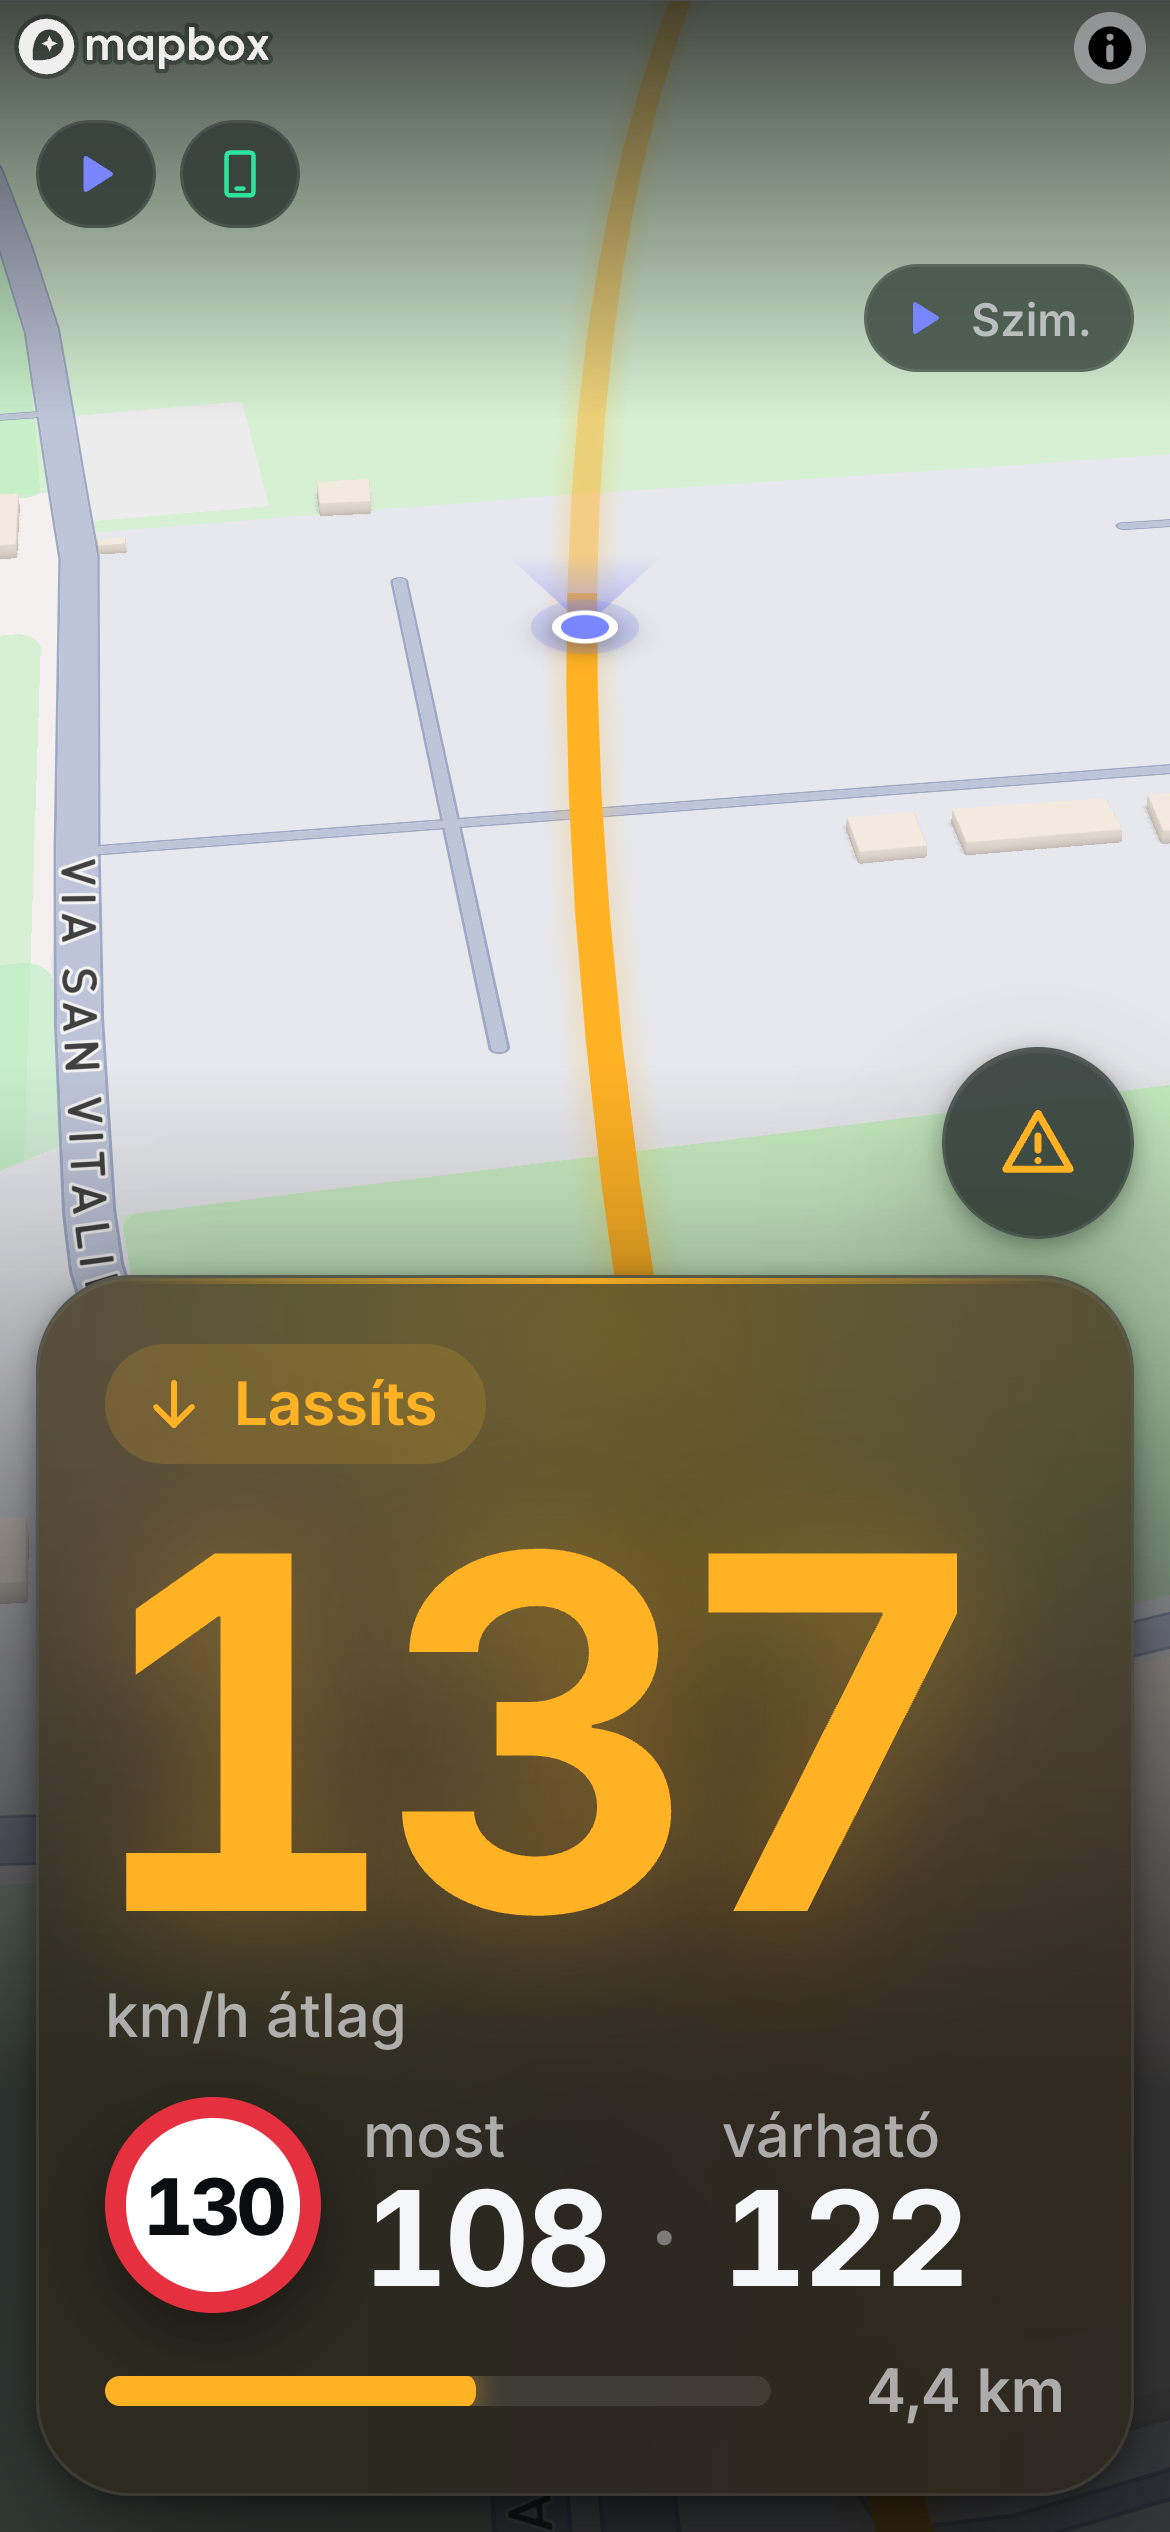
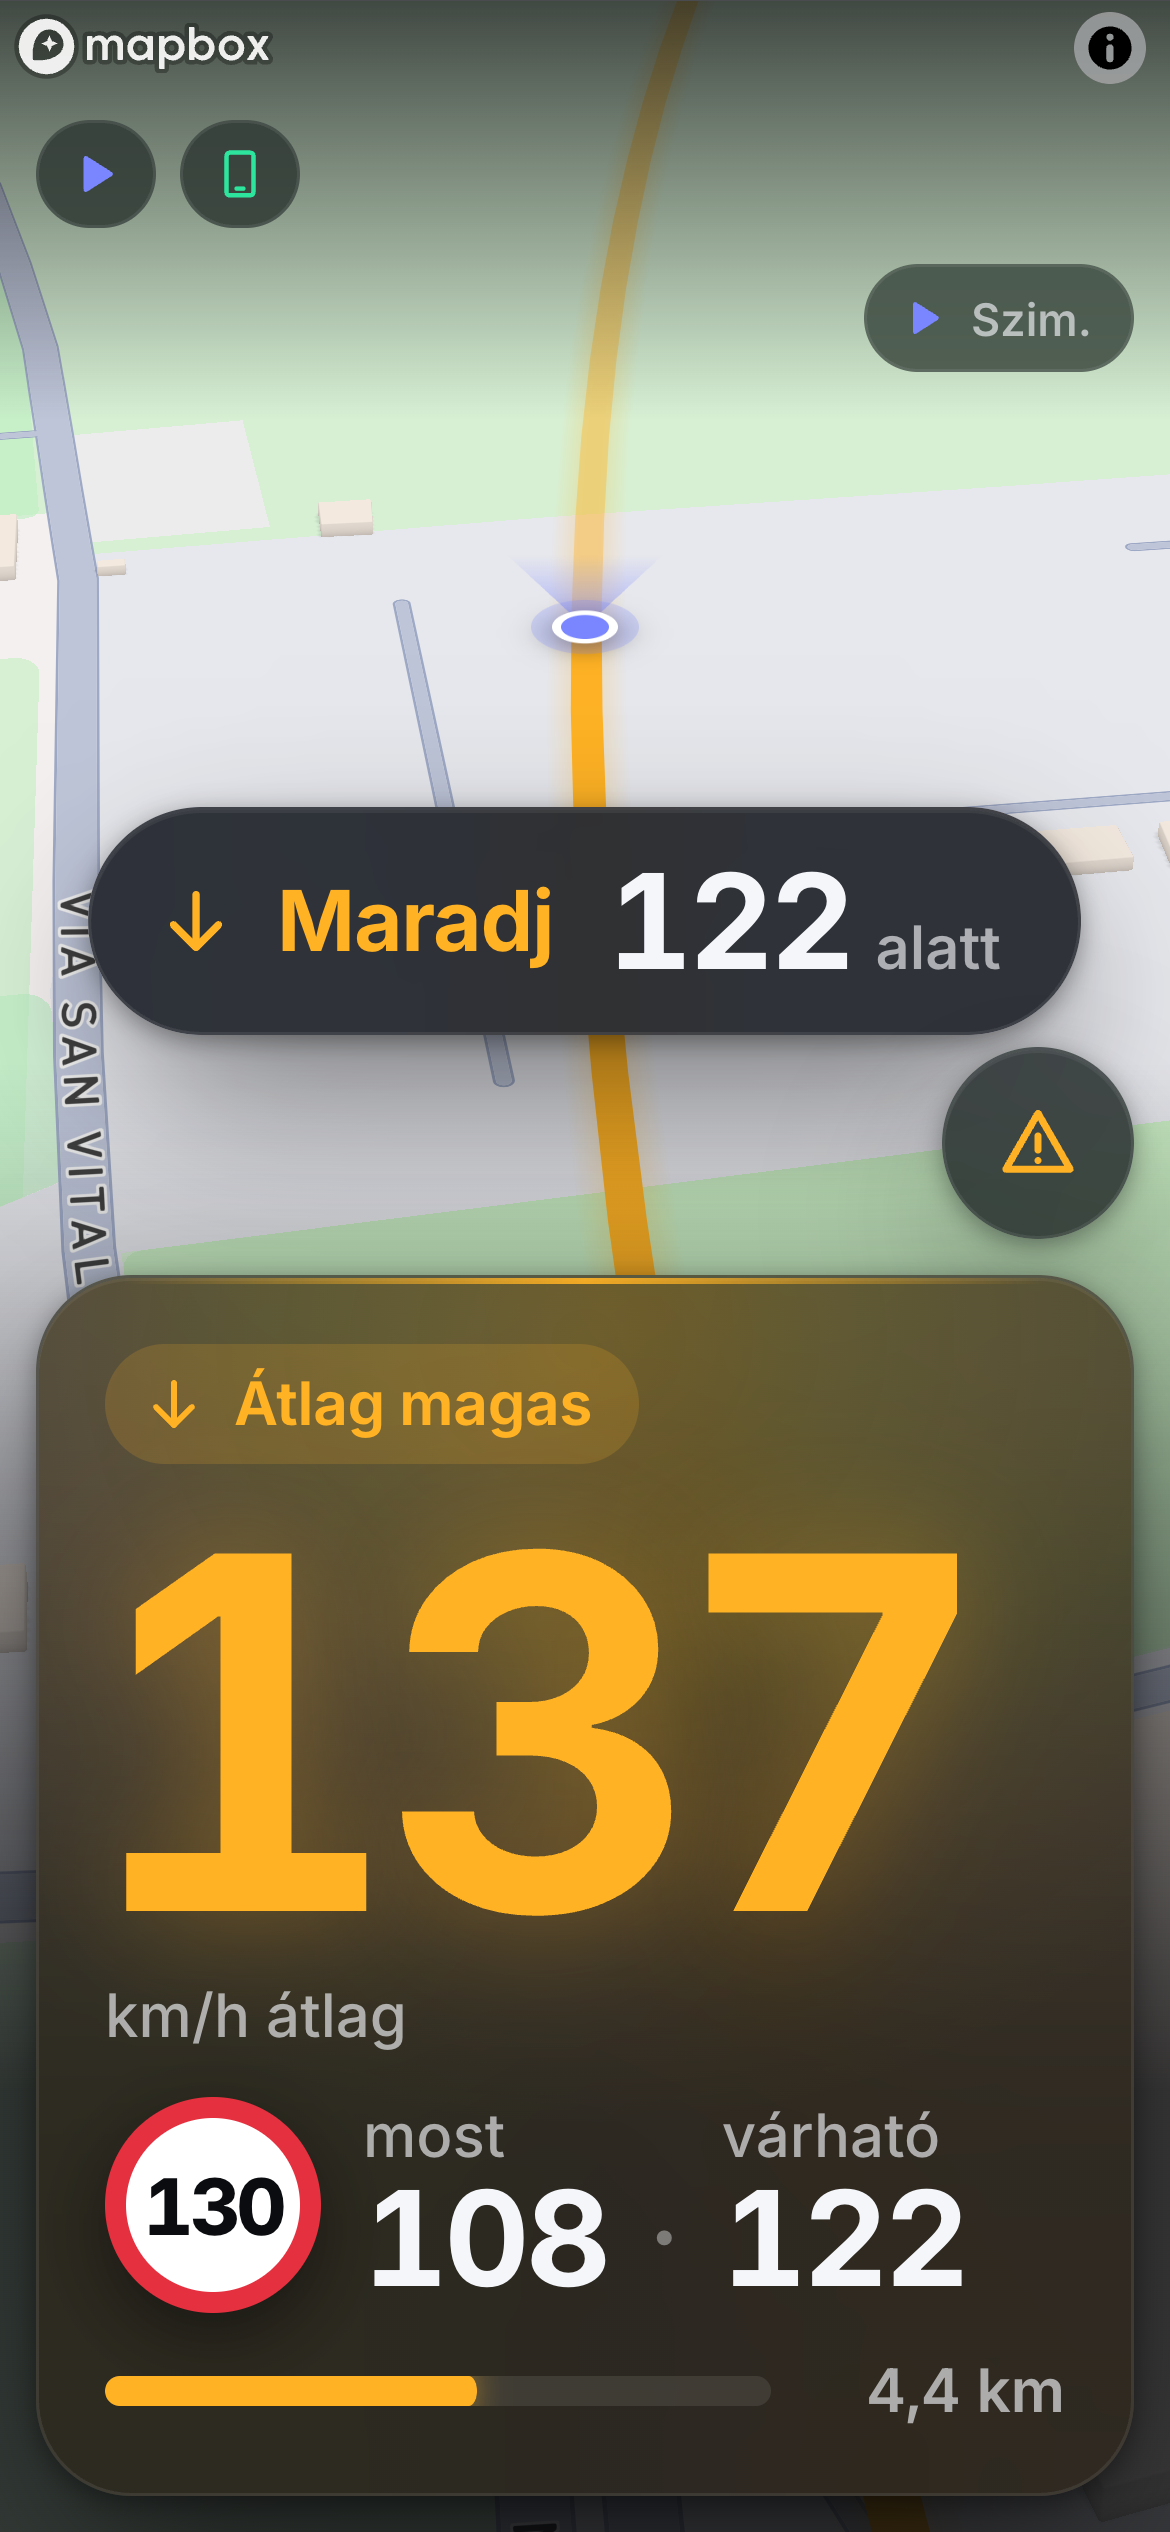
A7b: állapot-szövegek (Átlag magas / Maradj X alatt / Lassíts · max X), a sáv lassítás- és túl gyors állapotban mindig

diff --git a/apps/web/src/ui/Hud.tsx b/apps/web/src/ui/Hud.tsx
@@ -32,7 +32,7 @@ export interface HudProps {
 
 export const STATUS_META: Record<SpeedStatus, { icon: IconName; label: string }> = {
   jo: { icon: 'check', label: 'Jó ütem' },
-  lassits: { icon: 'arrowDown', label: 'Lassíts' },
+  lassits: { icon: 'arrowDown', label: 'Átlag magas' },
   tul_gyors: { icon: 'arrowUp', label: 'Túl gyors' },
 };
 
@@ -336,7 +336,7 @@ function useSteady(value: boolean, onMs: number, offMs: number): boolean {
  */
 export function SlowDown({ view, unit }: { view: SessionView; unit: Settings['egyseg'] }) {
   const live = view.phase === 'meres' ? view.live : null;
-  const bar = live ? meterBar(view.status, live.required, view.currentKmh) : null;
+  const bar = live ? meterBar(view.status, live.required) : null;
   const show = useSteady(bar !== null, 1500, 3000);
   // eltűnéskor az utolsó tartalom (és színe) marad, hogy ne ugorjon a kifutó animáció alatt
   const last = useRef<{ bar: MeterBar; tone: string } | null>(null);
@@ -348,6 +348,15 @@ export function SlowDown({ view, unit }: { view: SessionView; unit: Settings['eg
         <>
           <Icon name="arrowUp" size={30} />
           <span className="slowdown-label">Nem hozható be</span>
+        </>
+      ) : shown?.tone === 'lassits' ? (
+        <>
+          <Icon name="arrowDown" size={30} />
+          <span className="slowdown-label">Maradj</span>
+          <span className="slowdown-max">
+            <b className="num">{shown ? speedIn(shown.bar.maxKmh, unit) : ''}</b>
+            <span style={{ marginLeft: 8 }}>alatt</span>
+          </span>
         </>
       ) : (
         <>

diff --git a/packages/core/src/metrics.ts b/packages/core/src/metrics.ts
@@ -94,13 +94,12 @@ export function meterState(input: { averageKmh: number | null; projectedKmh: num
 export type MeterBar = { kind: 'max'; maxKmh: number } | { kind: 'nem_hozhato' };
 
 /**
- * Sáv csak `lassits` / `tul_gyors` állapotban van (és ha a hátralévő útra van értelmes korlát),
- * és „max X” csak amíg a pillanatnyi sebesség > X – ha már X alatt vagy, nincs mit mondani
- * (az állapot, a chip és a szín ettől függetlenül marad). Ismeretlen sebességnél a sáv megmarad.
+ * Sáv: `jo`-ban soha, `lassits`-ban és `tul_gyors`-ban mindig (ha a hátralévő útra van értelmes
+ * korlát). A szöveget az állapot adja: `lassits` „Maradj X alatt”, `tul_gyors` „Lassíts · max X”.
  */
-export function meterBar(state: MeterState | null, required: RequiredSpeed, currentKmh: number | null = null): MeterBar | null {
+export function meterBar(state: MeterState | null, required: RequiredSpeed): MeterBar | null {
   if (state === null || state === 'jo') return null;
-  if (required.kind === 'ok') return currentKmh !== null && currentKmh <= required.maxKmh ? null : { kind: 'max', maxKmh: required.maxKmh };
+  if (required.kind === 'ok') return { kind: 'max', maxKmh: required.maxKmh };
   if (required.kind === 'nem_lehetseges') return { kind: 'nem_hozhato' };
   return null;
 }

diff --git a/packages/core/test/metrics.test.ts b/packages/core/test/metrics.test.ts
@@ -144,15 +144,4 @@ describe('meterState / meterBar', () => {
     expect(meterBar('tul_gyors', { kind: 'nem_lehetseges', maxKmh: 60 })).toEqual({ kind: 'nem_hozhato' });
     expect(meterBar('tul_gyors', { kind: 'nincs_korlat' })).toBeNull();
   });
-
-  it('sáv: „max X” csak amíg a pillanatnyi sebesség > X', () => {
-    const req = { kind: 'ok', maxKmh: 122 } as const;
-    expect(meterBar('lassits', req, 140)).toEqual({ kind: 'max', maxKmh: 122 });
-    expect(meterBar('lassits', req, 122.1)).toEqual({ kind: 'max', maxKmh: 122 });
-    expect(meterBar('lassits', req, 122)).toBeNull();
-    expect(meterBar('lassits', req, 108)).toBeNull();
-    expect(meterBar('tul_gyors', req, 108)).toBeNull(); // az állapot marad, csak a sáv tűnik el
-    expect(meterBar('tul_gyors', req, null)).toEqual({ kind: 'max', maxKmh: 122 });
-    expect(meterBar('tul_gyors', { kind: 'nem_lehetseges', maxKmh: 60 }, 50)).toEqual({ kind: 'nem_hozhato' });
-  });
 });

diff --git a/DESIGN.md b/DESIGN.md
@@ -25,21 +25,21 @@ változókká alakítja, a natív app közvetlenül importálja.
 | `text` / `textMuted` / `textFaint` | `#F4F6FA` / 64% / 40% | szöveg |
 | `accent` | `#7A86FF` | márka, kézi mód, fókusz |
 | `ok` | `#2EE59D` | **Jó ütem** (`jo`) – az átlag ≤ határ |
-| `near` | `#FFB224` | **Lassíts** (`lassits`) – az átlag a határ felett, de a várható végső ≤ határ |
+| `near` | `#FFB224` | **Átlag magas** (`lassits`) – az átlag a határ felett, de a várható végső ≤ határ |
 | `over` | `#FF4D61` | **Túl gyors** (`tul_gyors`) – a várható végső a határ felett |
 | `idle` | `#8C93A3` | megszakadt / nincs adat |
 
-A státuszszín a nagy számot, a chipet, a „Lassíts” sávot, a progress kitöltését, a kártya háttér-
+A státuszszín a nagy számot, a chipet, a sávot, a progress kitöltését, a kártya háttér-
 árnyalatát és fényívét, valamint a térképen az aktív szakasz vonalát színezi – **mindig ugyanabból
-az egy állapotból**. Az állapot-ikonok: ✓ jó ütem, ↓ lassíts, ↑ túl gyors, ⏸ megszakadt.
+az egy állapotból**. Az állapot-ikonok: ✓ jó ütem, ↓ átlag magas, ↑ túl gyors, ⏸ megszakadt.
 
 **Az állapot (A7b; core `meterState`, app-logic `speedStatus`):**
 
 | állapot | feltétel | chip | sáv |
 |---|---|---|---|
 | `jo` (zöld) | átlag ≤ határ | „Jó ütem” | nincs |
-| `lassits` (borostyán) | átlag > határ, de várható végső ≤ határ | „Lassíts” | „Lassíts · max X” |
-| `tul_gyors` (piros) | várható végső > határ | „Túl gyors” | „Lassíts · max X”; ha X a „nem lehetséges” küszöb alatt (határ 60%-a): „Nem hozható be” |
+| `lassits` (borostyán) | átlag > határ, de várható végső ≤ határ | „Átlag magas” | mindig: „Maradj X alatt” (X = a szükséges max) |
+| `tul_gyors` (piros) | várható végső > határ | „Túl gyors” | mindig: „Lassíts · max X”; ha X a „nem lehetséges” küszöb alatt (határ 60%-a): „Nem hozható be” |
 
 A régi „határon” (3%) sáv megszűnt. A **várható végső** a core becslése (`projectedAverageKmh`): a
 hátralévő utat a jelenlegi sebességgel megtéve mennyi lesz a szakasz átlaga. Sebesség nélkül (álló
@@ -75,8 +75,8 @@ biztonsági zóna fölött lebeg.
   **csak ikonok** (szöveg nélkül). Koppinthatók, ha teendő van (pl. ébrentartás újrakérése).
 - **Ébrentartás (A4-döntés):** ha a Wake Lock nem sikerül, **egyszer**, induláskor egy csendes,
   semleges toast szól (5 s); utána csak a szürke kijelző-ikon jelzi – nem sárga, nem ismétlődik.
-- **„Lassíts · max X” (A4-döntés):** külön, nagy üvegpill középen a kártya fölött (76 px magas,
-  `title` címke + 44 px-es szám), **csak `lassits` / `tul_gyors` állapotban, és csak amíg a pillanatnyi sebesség > X** (ha már X alatt vagy, nincs sáv; a chip és a szín az állapot szerint marad) (a színe az állapoté; „Nem hozható be” szöveggel, ha a „max” már nem reális). Megjelenés/eltűnés `slow` (480 ms)
+- **Sáv: „Lassíts · max X” / „Maradj X alatt” (A4-, A7b-döntés):** külön, nagy üvegpill középen a kártya fölött (76 px magas,
+  `title` címke + 44 px-es szám), **`lassits` és `tul_gyors` állapotban mindig, `jo`-ban soha** (a színe az állapoté: borostyán „Maradj X alatt”, piros „Lassíts · max X”, vagy „Nem hozható be”, ha a „max” már nem reális). Megjelenés/eltűnés `slow` (480 ms)
   opacity + transform; hiszterézis: 1,5 s fennállás után jelenik meg, 3 s hiány után tűnik el,
   így a határérték körüli ingadozás nem villog. 
 - **Kerek gombok** (64 px, üveg): bejelentés, kézi mérés, beállítások.
@@ -96,7 +96,7 @@ biztonsági zóna fölött lebeg.
 - **Szabad térkép (A5):** húzás, csípés, forgatás. Mozdításkor a követés kikapcsol, és a gombsor
   fölött megjelenik a **„Vissza a helyemre”** (64 px, célkereszt, accent); rá a követő kamera
   animálva (900 ms) áll vissza. Mérés közben 5 s tétlenség után magától is; mérésen kívül csak a
-  gombra. Mérés közben a gomb a „Lassíts” sáv helye fölött ül.
+  gombra. Mérés közben a gomb a állapot-sáv helye fölött ül.
 - **Mapbox-attribúció (A5):** logó a bal, kompakt „i” a jobb felső sarokban, alapméretben, a
   biztonsági zóna alatt 4 px-re; kinyitva az attribúció több sorba tördel, nem takarja a logót.
   Az állapot-pillek közvetlenül a logó sora alatt (az A4-es helyükön).
